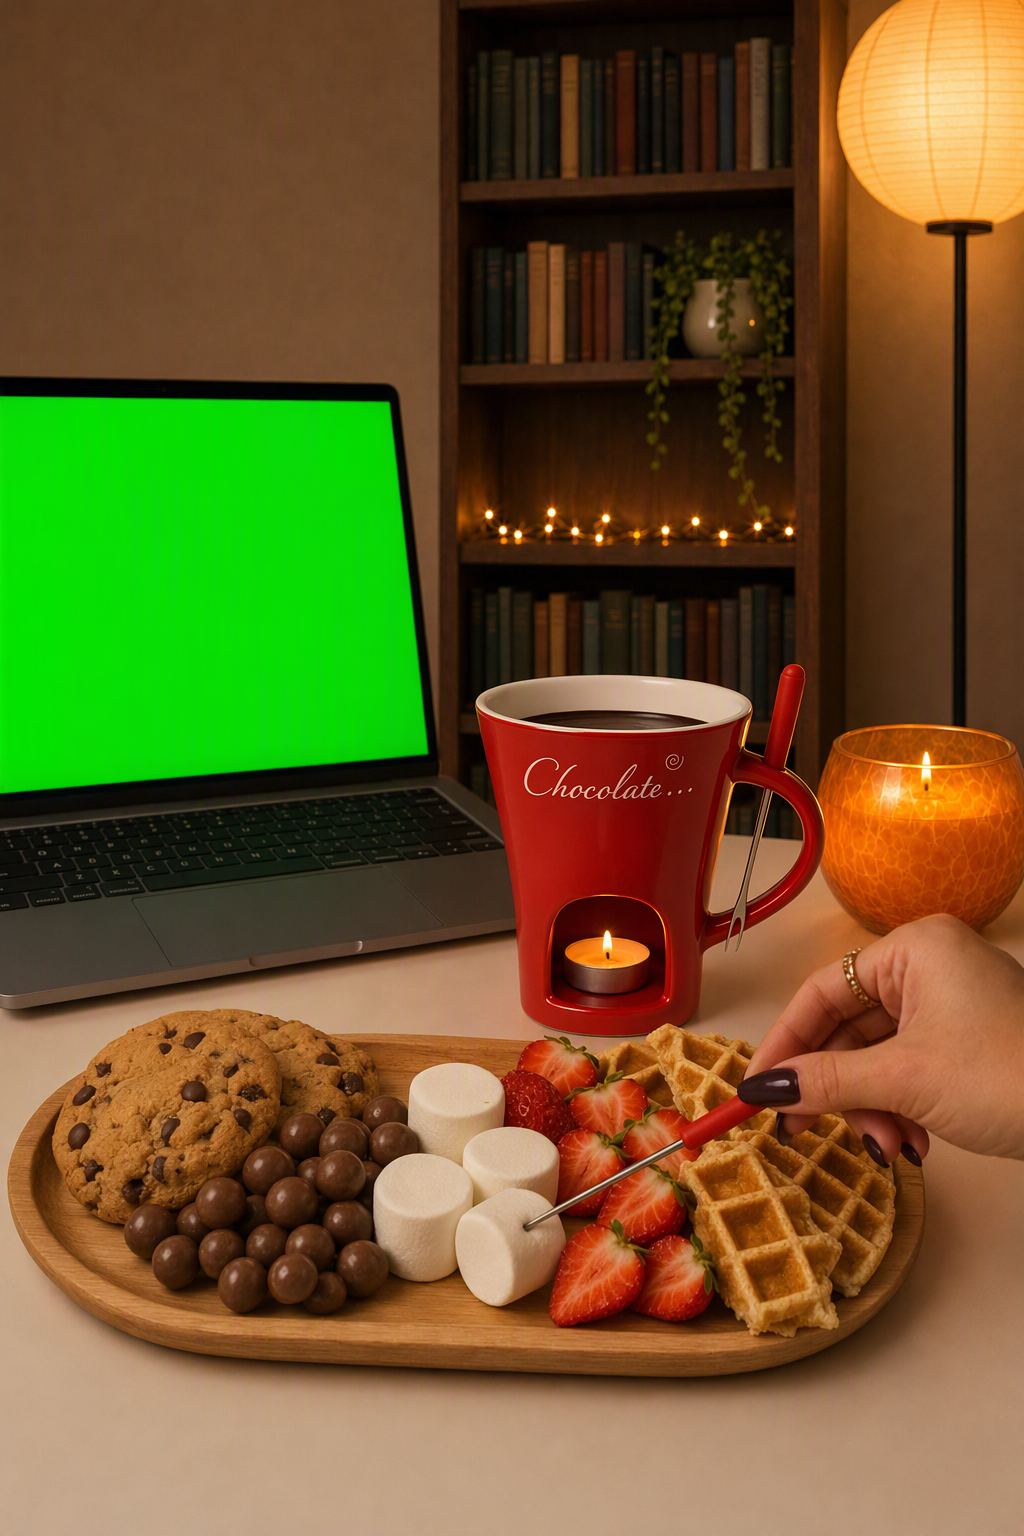
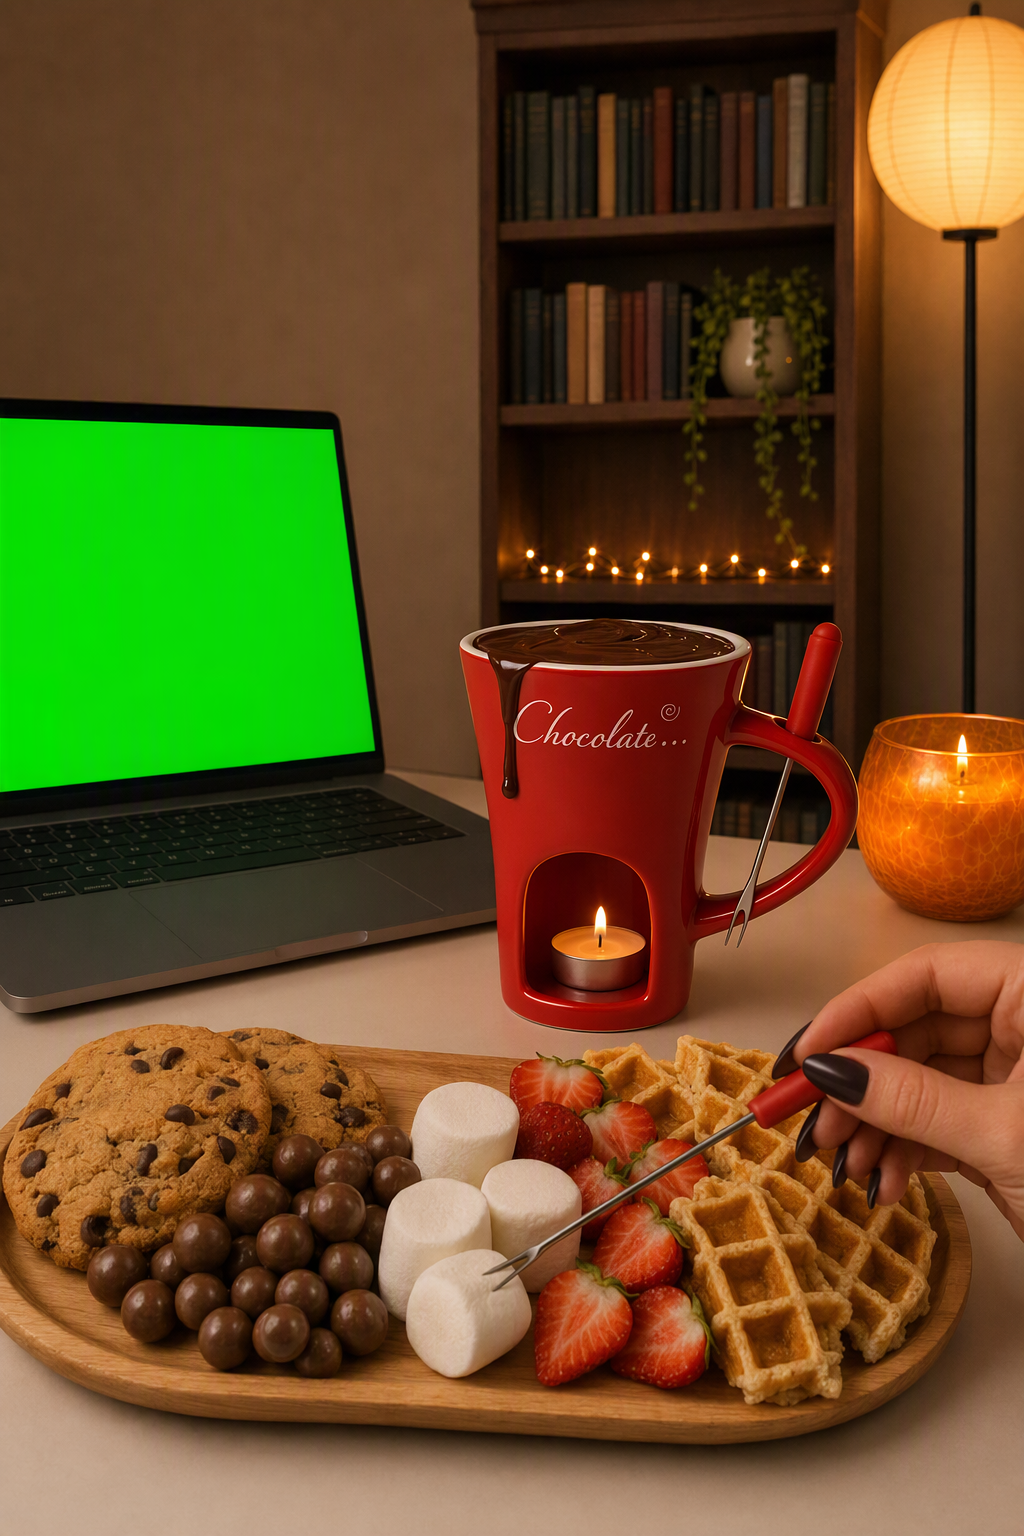
Video: gift-red pour and last shot spill chocolate; stale grade sharing fix
gift-red s3: a thick stream of malt balls overflows the mug and scatters across the desk; s9: the
dip pushes the brim-full chocolate over the rim and down the mug onto the desk (s8 follows the new
take). Mean comp 89.2, all 8 cuts exact.

compare.mjs --apply: a jump-cut shot only shares a grade fitted on the same take (s8/s9 passed a
stale grade from the old clip back and forth). Docs: how to get spills (start one step from the
spill, name the amount, 3 takes).

diff --git a/video/CLAUDE.md b/video/CLAUDE.md
@@ -129,6 +129,13 @@ from `video/`; the capture writes `video/videos/<name>/…` (relative to the rep
    prompt spells each beat with times: over the mug → lowered straight DOWN INTO the mug until it
    disappears under the chocolate → stays under a moment → rises out coated, dripping. Check the dip
    frame by frame on the take sheet before building.
+   **Spills** (a brief asks for lots of chocolate so it spills): Sora won't overflow a half-empty mug
+   inside a short slot, so start the keyframe one step from the spill — the mug already heaped / brim
+   full with the first pieces or a first drip already over the rim and on the desk — and prompt the
+   amount and the spill itself ("a THICK, heavy stream of dozens of malt balls… many tumble over the
+   rim and spill across the desk"; "pushes it into the brim-full mug; the chocolate rises and SPILLS
+   over the rim, running down the outside onto the desk"). Make 3 takes; pick the one that keeps
+   spilling through the slot and use `from`/`speed` to show the growing spill.
    **Generate**: `node sora.mjs videos/<name>` (up to 2 jobs at once, often ~1 when anything else
    uses the deployment; ~60–120s each, so ~30 min for 20 takes; background it). `--more N --only sN`
    adds N takes.
